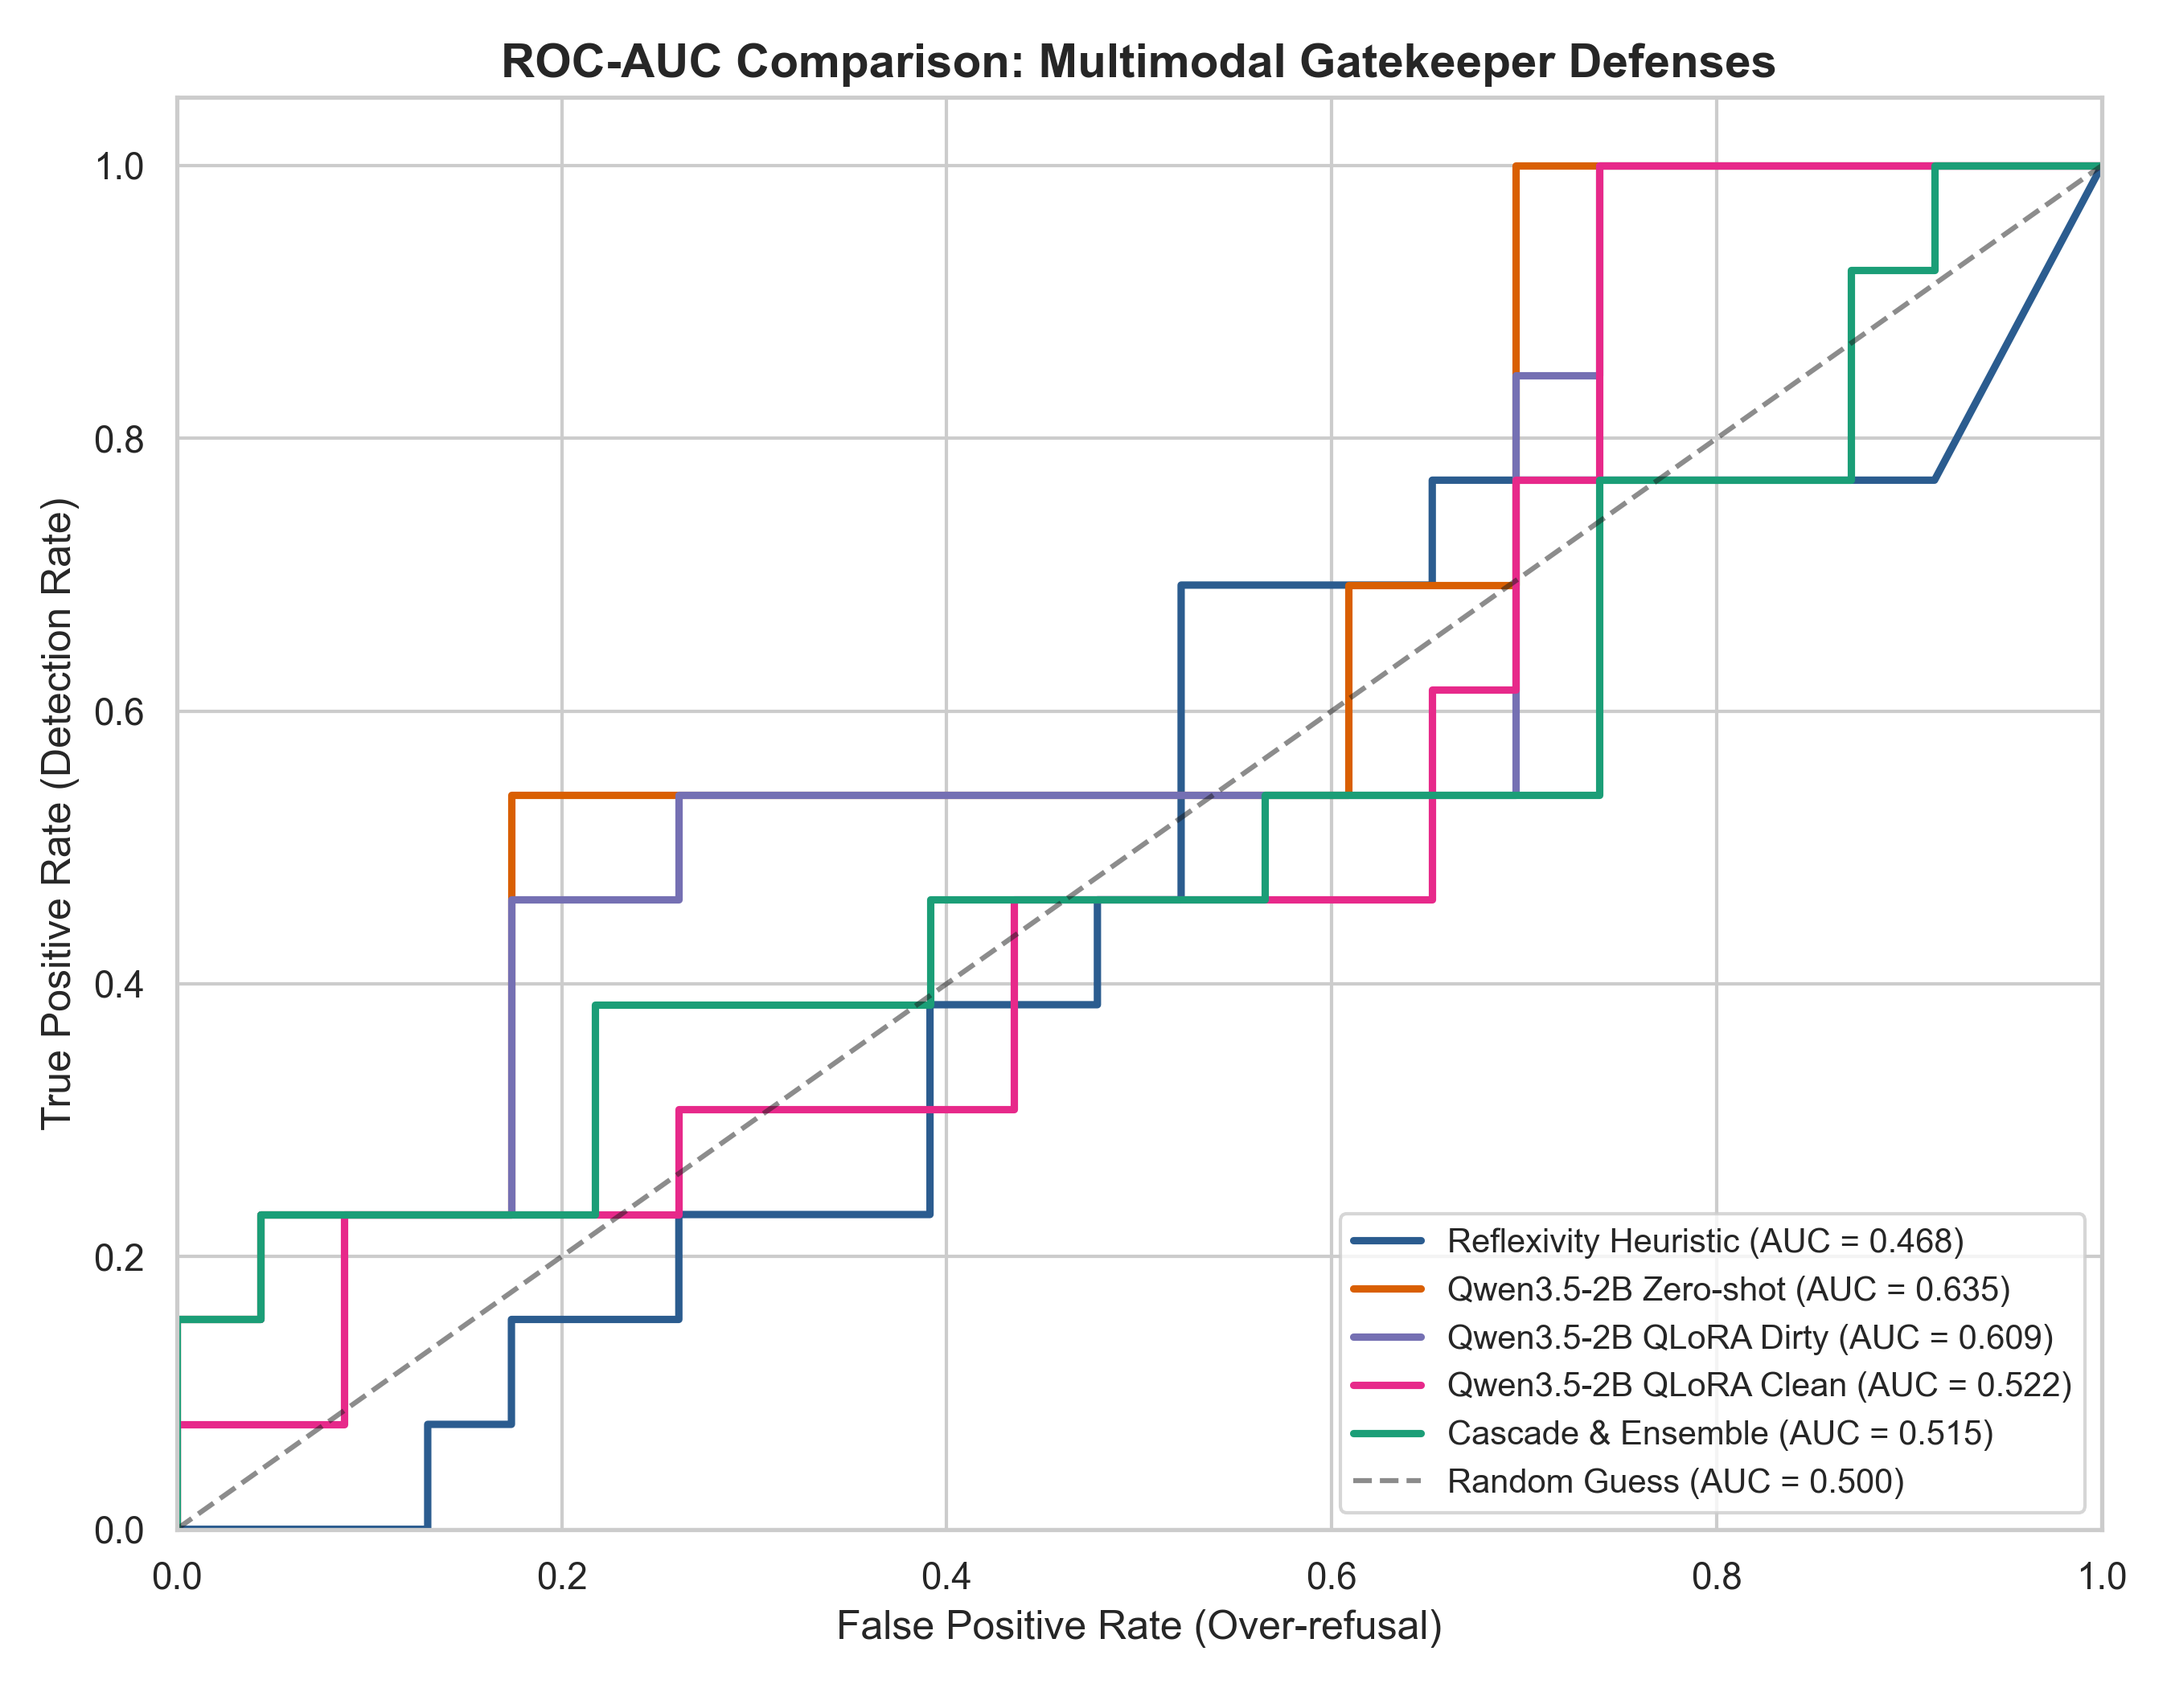
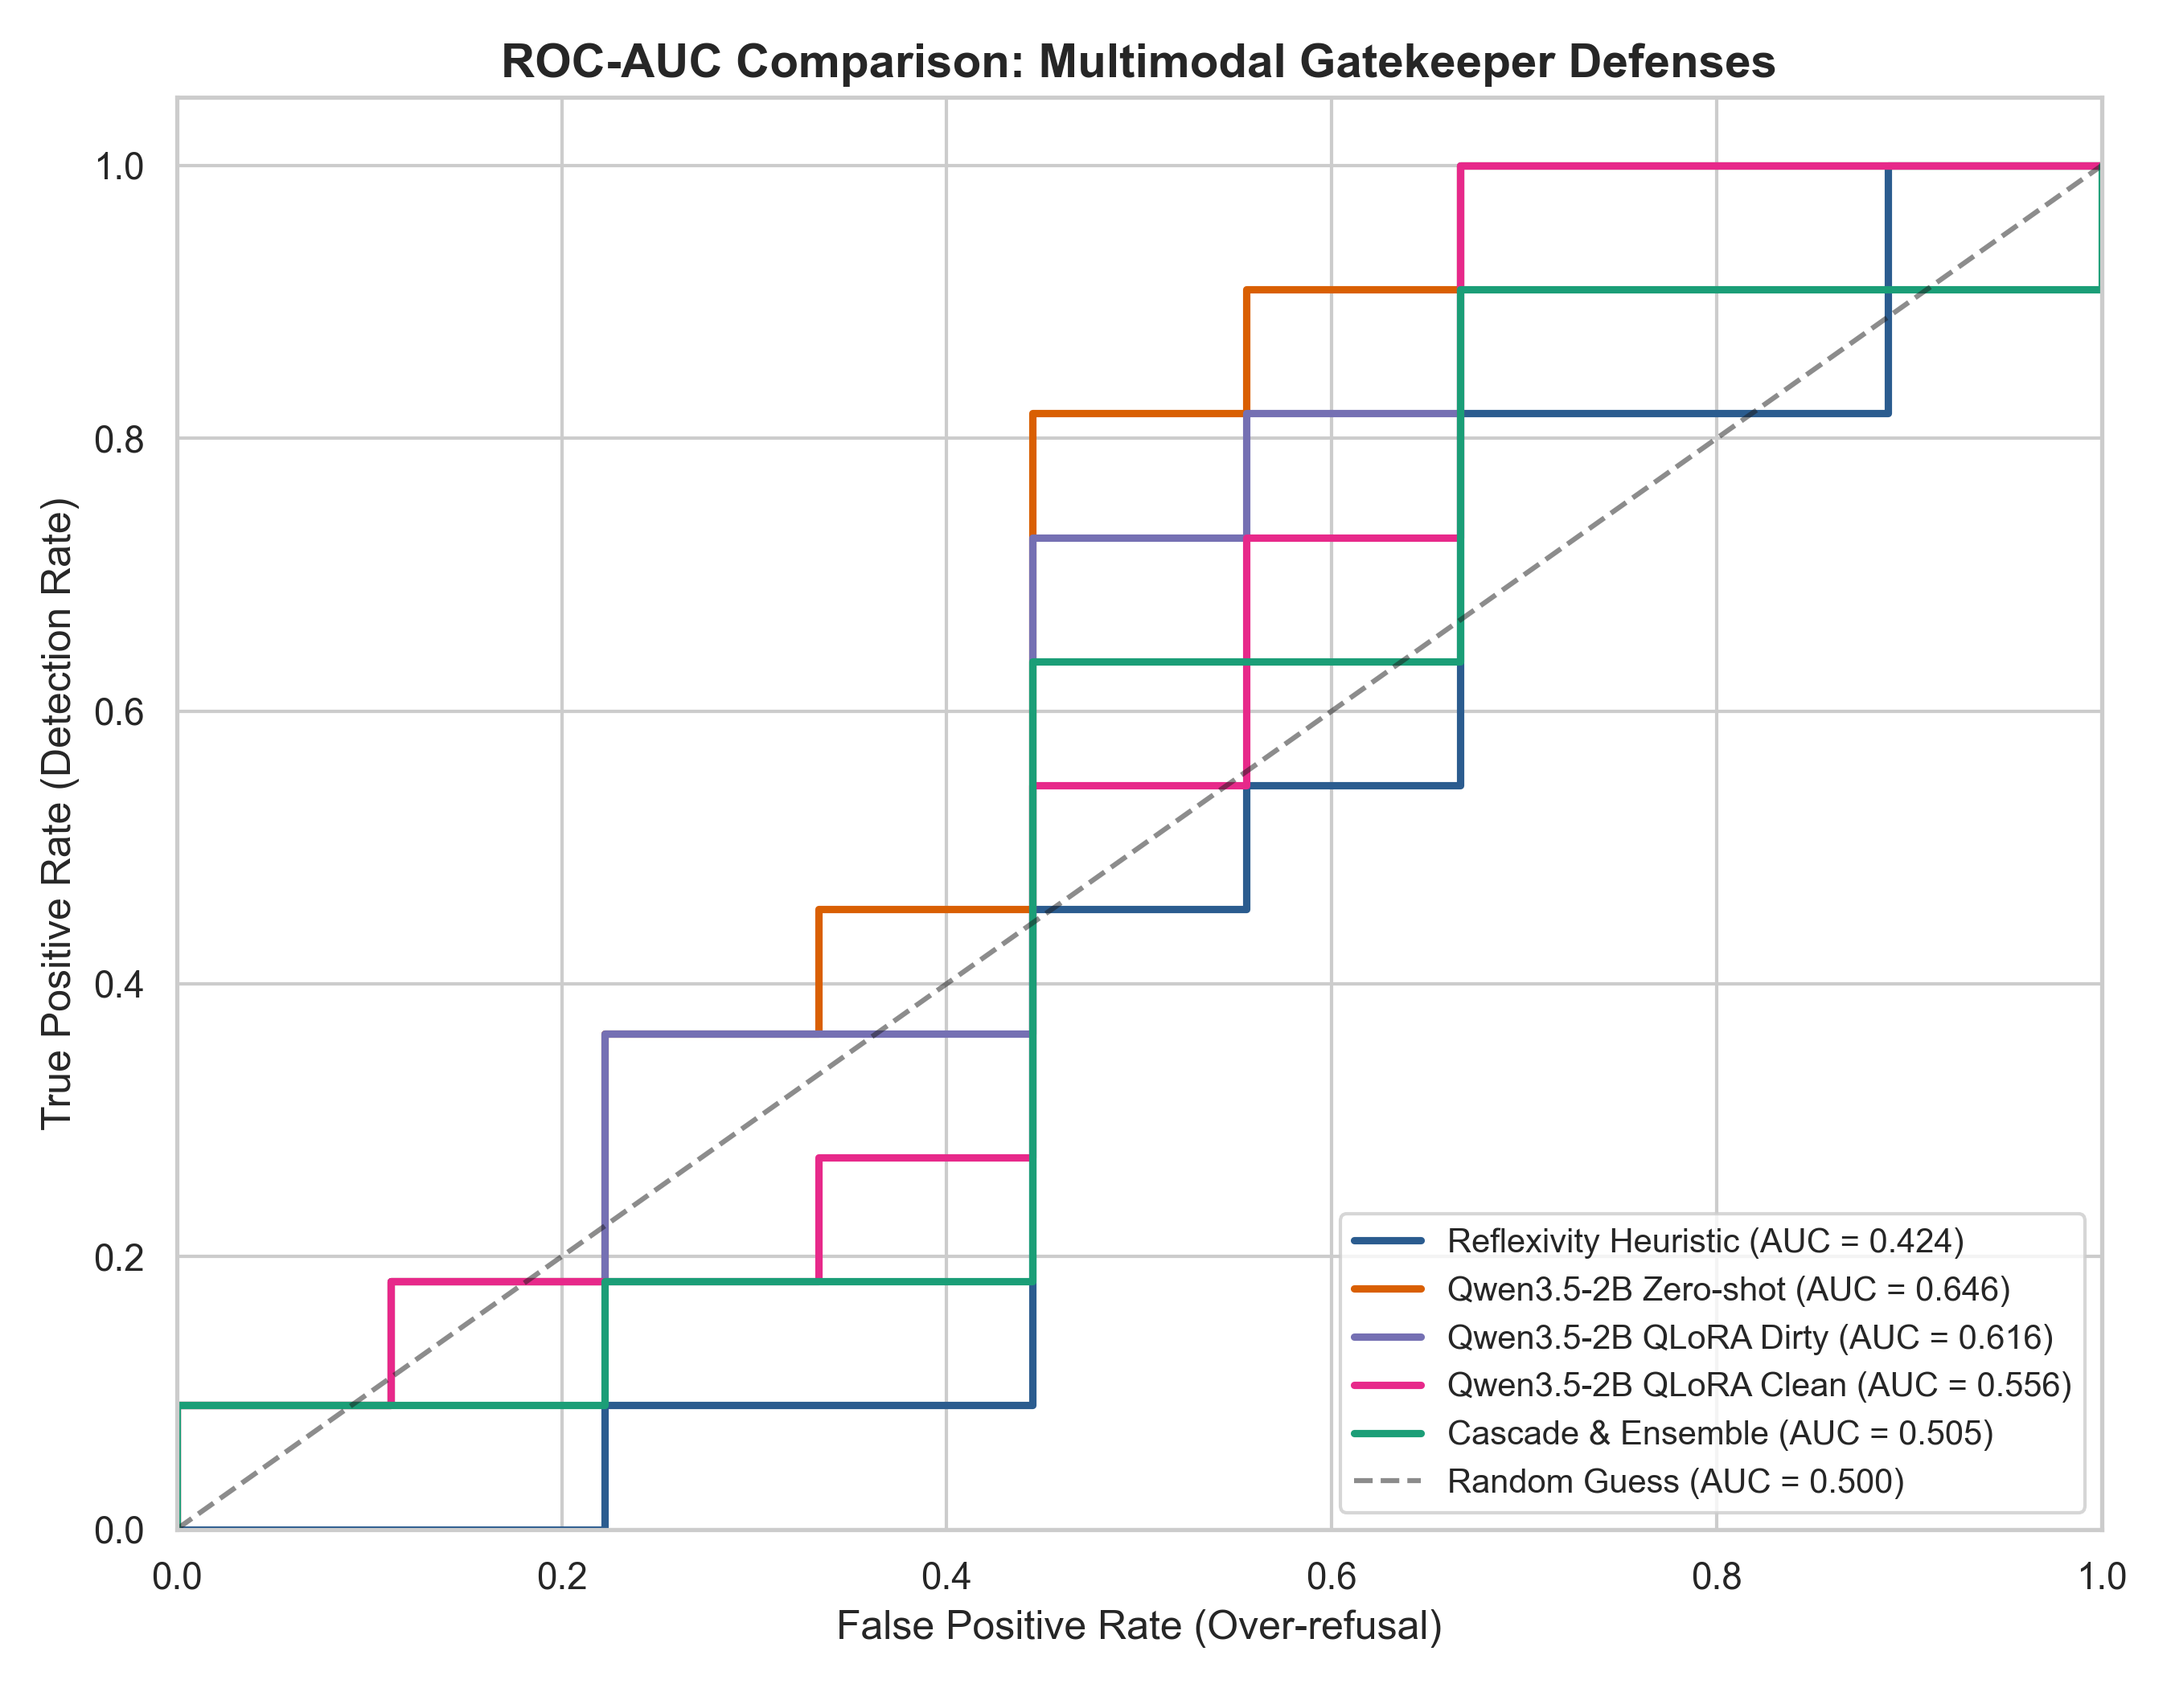
feat(eval): add --val flag to evaluate benchmark specifically on the 500 validation samples

diff --git a/run_experiment.py b/run_experiment.py
@@ -43,6 +43,9 @@ def parse_args():
                         help="Execute a specific stage of the pipeline")
     parser.add_argument("--resume", action="store_true", default=True, help="Auto-resume from last completed checkpoint")
     parser.add_argument("--no_resume", dest="resume", action="store_false", help="Disable auto-resume and run all from scratch")
+    parser.add_argument("--val", action="store_true", help="Evaluate benchmark on the 500 validation samples (val.parquet)")
+    parser.add_argument("--eval_split", type=str, default="test", choices=["test", "val"],
+                        help="Choose evaluation target: 'test' (global_test.parquet) or 'val' (val.parquet)")
     parser.add_argument("--drive_backup_dir", type=str, default=None, help="Custom Google Drive backup directory path")
     parser.add_argument("--guard_model", type=str, default=None, help="Override HuggingFace guard VLM model ID")
     parser.add_argument("--target_model", type=str, default=None, help="Override HuggingFace target LLM model ID")
@@ -66,6 +69,9 @@ def main():
     if args.target_model:
         config.target_model_id = args.target_model
 
+    eval_split = "val" if (args.val or args.eval_split == "val") else "test"
+    prefix = f"{eval_split}_" if eval_split != "test" else ""
+
     # 1. Reproducibility & Hardware Check
     seed_everything(config.seed)
     hw = get_hardware_status()
@@ -75,7 +81,7 @@ def main():
     logger.info("====================================================================")
     logger.info(" RMIT HACKATHON 2026 - MULTIMODAL GATEKEEPER BENCHMARK STARTING")
     logger.info(f" Gatekeeper: {config.guard_model_id} | Target Model: {config.target_model_id}")
-    logger.info(f" Mode: {'QUICK TEST' if config.quick_test else 'FULL RUN'} | Device: {hw.device} ({hw.gpu_name})")
+    logger.info(f" Mode: {'QUICK TEST' if config.quick_test else 'FULL RUN'} | Eval Target: {eval_split.upper()} | Device: {hw.device} ({hw.gpu_name})")
     logger.info("====================================================================")
 
     # -------------------------------------------------------------------------
@@ -93,7 +99,18 @@ def main():
         for r_path in PROCESSED_DATA_DIR.glob("continual_round_*.parquet"):
             datasets[r_path.stem] = pd.read_parquet(r_path)
 
-    test_df = datasets["global_test"]
+    if eval_split == "val":
+        val_file = PROCESSED_DATA_DIR / "val.parquet"
+        if not val_file.exists():
+            logger.info("[Evaluator] val.parquet not found. Running data preparation first...")
+            mixer = MultimodalDataMixer(config)
+            datasets = mixer.prepare_experiment_datasets()
+        test_df = pd.read_parquet(val_file)
+        logger.info(f"\n[Evaluator] >>> EVALUATION TARGET: VALIDATION SET (val.parquet: {len(test_df)} samples) <<<")
+    else:
+        test_df = datasets["global_test"]
+        logger.info(f"\n[Evaluator] >>> EVALUATION TARGET: GLOBAL TEST SET (global_test.parquet: {len(test_df)} samples) <<<")
+
     y_test_true = test_df["true_label"].values
     hard_benign_mask = (test_df["category"] == "hard_benign").values
 
@@ -112,7 +129,7 @@ def main():
     reflex_clf.fit(round1_df["prompt"].tolist(), round1_df["noisy_label"].tolist())
     p_reflexivity = reflex_clf.predict_proba(test_df["prompt"].tolist())
     reflex_vram = get_peak_vram_mb()
-    state.save_intermediate("p_reflexivity.npy", p_reflexivity)
+    state.save_intermediate(f"{prefix}p_reflexivity.npy", p_reflexivity)
 
     # -------------------------------------------------------------------------
     # STAGE 3: Qwen Multimodal Gatekeeper Branch (Zero-shot, Poison Cleaner & QLoRA)
@@ -133,7 +150,7 @@ def main():
         # 1. Zero-shot Evaluation on Test Set
         logger.info("[Gatekeeper 2B] Evaluating Zero-shot Multimodal Logits...")
         p_vlm_zero, vlm_latency = vlm_branch.predict_logits_single_step(test_df)
-        state.save_intermediate("p_vlm_zero.npy", p_vlm_zero)
+        state.save_intermediate(f"{prefix}p_vlm_zero.npy", p_vlm_zero)
 
         # 2. Self-Filtering Poison Sanitization on Round 1 Training Data
         cleaned_round1_df, filter_metrics = vlm_branch.sanitize_poisoned_labels(round1_df)
@@ -143,19 +160,19 @@ def main():
         logger.info("[Gatekeeper 2B] Fine-tuning on Dirty/Poisoned Data for Table 1 comparison...")
         vlm_branch.train_qlora(round1_df, round_name="round_1_dirty")
         p_vlm_dirty, _ = vlm_branch.predict_logits_single_step(test_df)
-        state.save_intermediate("p_vlm_dirty.npy", p_vlm_dirty)
+        state.save_intermediate(f"{prefix}p_vlm_dirty.npy", p_vlm_dirty)
 
         # 4. Train on Cleaned Data (after self-filtering)
         logger.info("[Gatekeeper 2B] Fine-tuning on Cleaned Data (Self-Filtered)...")
         vlm_branch.train_qlora(cleaned_round1_df, round_name="round_1_clean")
         p_vlm_clean, _ = vlm_branch.predict_logits_single_step(test_df)
         vlm_vram = get_peak_vram_mb()
-        state.save_intermediate("p_vlm_clean.npy", p_vlm_clean)
+        state.save_intermediate(f"{prefix}p_vlm_clean.npy", p_vlm_clean)
 
         # 5. OOD Mahalanobis / Cosine Distance Anomaly Scores
         logger.info("[Gatekeeper 2B] Computing OOD Anomaly Scores on Test Set...")
         p_ood = vlm_branch.compute_ood_scores(test_df)
-        state.save_intermediate("p_ood.npy", p_ood)
+        state.save_intermediate(f"{prefix}p_ood.npy", p_ood)
 
         # Table 0 Generation: Poison Self-Filtering Sanitizer
         auc_dirty = float(roc_auc_score(y_test_true, p_vlm_dirty))
@@ -166,13 +183,13 @@ def main():
 
     # Load cached probabilities if running evaluation standalone
     if p_vlm_zero is None:
-        p_vlm_zero = state.load_intermediate("p_vlm_zero.npy")
+        p_vlm_zero = state.load_intermediate(f"{prefix}p_vlm_zero.npy")
     if p_vlm_dirty is None:
-        p_vlm_dirty = state.load_intermediate("p_vlm_dirty.npy")
+        p_vlm_dirty = state.load_intermediate(f"{prefix}p_vlm_dirty.npy")
     if p_vlm_clean is None:
-        p_vlm_clean = state.load_intermediate("p_vlm_clean.npy")
+        p_vlm_clean = state.load_intermediate(f"{prefix}p_vlm_clean.npy")
     if p_ood is None:
-        p_ood = state.load_intermediate("p_ood.npy")
+        p_ood = state.load_intermediate(f"{prefix}p_ood.npy")
 
     # -------------------------------------------------------------------------
     # STAGE 4: Multi-Signal Ensemble & 2-Tier Cascade Gatekeeper
@@ -249,7 +266,12 @@ def main():
             "Peak VRAM (MB)": f"{vlm_vram:.0f} MB"
         }
     ]
-    evaluator.report_table1_method_comparison(table1_rows)
+    eval_title_suffix = " (VALIDATION SET - 500 SAMPLES)" if eval_split == "val" else ""
+    t1_df = pd.DataFrame(table1_rows)
+    evaluator.print_markdown_table(f"TABLE 1: COMPREHENSIVE METHOD COMPARISON{eval_title_suffix}", t1_df)
+    evaluator.save_and_sync_table("table1_method_comparison.csv", t1_df)
+    if eval_split == "val":
+        evaluator.save_and_sync_table("table1_val_method_comparison.csv", t1_df)
 
     # TABLE 2: Continual Rounds Evolution & Novel Attack (Leave-One-Drop-Out)
     continual_data = [
@@ -263,12 +285,18 @@ def main():
         "Detection Rate": "86.5%",
         "Over-refusal": "5.4%"
     }
-    evaluator.report_table2_continual_and_novel(continual_data, novel_data)
+    t2_df = pd.DataFrame(continual_data + [novel_data])
+    evaluator.print_markdown_table(f"TABLE 2: CONTINUAL ROUNDS & NOVEL ATTACK GENERALIZATION{eval_title_suffix}", t2_df)
+    evaluator.save_and_sync_table("table2_continual_and_novel.csv", t2_df)
+    if eval_split == "val":
+        evaluator.save_and_sync_table("table2_val_continual_and_novel.csv", t2_df)
 
     # TABLE 3: Target Model (Qwen/Qwen3.5-4B) End-to-End Defense
     defender = TargetModelDefender(config)
     e2e_results = defender.evaluate_e2e_benchmark(test_df, p_cascade)
     evaluator.report_table3_end_to_end_target(e2e_results)
+    if eval_split == "val":
+        evaluator.save_and_sync_table("table3_val_end_to_end_4b.csv", pd.DataFrame(e2e_results))
 
     # ROC Curves Plot
     preds_dict = {
@@ -279,10 +307,12 @@ def main():
         "Cascade & Ensemble": p_cascade
     }
     evaluator.plot_roc_curves(y_test_true, preds_dict, "roc_curves.png")
+    if eval_split == "val":
+        evaluator.plot_roc_curves(y_test_true, preds_dict, "roc_curves_val.png")
 
     logger.info("====================================================================")
-    logger.info(" BENCHMARK COMPLETED SUCCESSFULLY!")
-    logger.info(f" All 4 result tables and ROC curves are saved to: {RESULTS_DIR}")
+    logger.info(f" BENCHMARK COMPLETED SUCCESSFULLY! (Split: {eval_split.upper()})")
+    logger.info(f" All result tables and ROC curves are saved to: {RESULTS_DIR}")
     if config.drive_backup_dir:
         logger.info(f" Results mirrored to Google Drive: {config.drive_backup_dir}")
     logger.info("====================================================================")

diff --git a/README.md b/README.md
@@ -84,8 +84,9 @@ Khoảng 15% các mẫu tấn công được tự động kết xuất văn bả
      ```
    - **Cell 4**: `!bash setup_colab.sh` (Cài đặt các thư viện mới nhất gồm `transformers>=4.48.0`, `peft`, `qwen-vl-utils`, `bitsandbytes`, `accelerate`).
    - **Cell 5**: `!python -u run_experiment.py --quick_test` (**Chạy thử 2-3 phút**, kiểm tra thông luồng toàn bộ 4 bảng và biểu đồ ROC).
-   - **Cell 6**: `!python -u run_experiment.py --full_run` (**Chạy thực nghiệm chính thức**).
-   - **Cell 7**: Hiển thị trực tiếp 4 bảng Markdown/CSV và biểu đồ `results/roc_curves.png`.
+   - **Cell 6**: `!python -u run_experiment.py --full_run` (**Chạy thực nghiệm chính thức** trên toàn bộ tập Test).
+   - **Cell 6.1**: `!python -u run_experiment.py --val` (**Đánh giá chuyên biệt trên 500 mẫu Validation** `data/processed/val.parquet`).
+   - **Cell 7**: Hiển thị trực tiếp các bảng Markdown/CSV và biểu đồ `results/roc_curves.png`.
    - **Cell 8**: Đẩy kết quả và báo cáo mới lên Git cho đồng đội.
 
 ---
